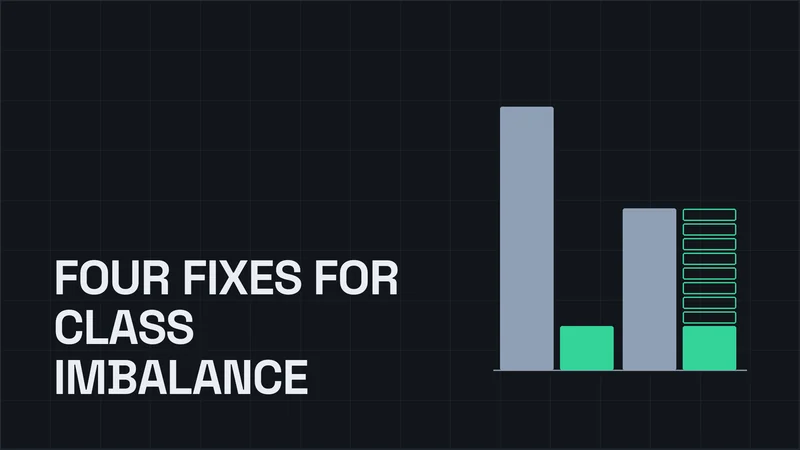
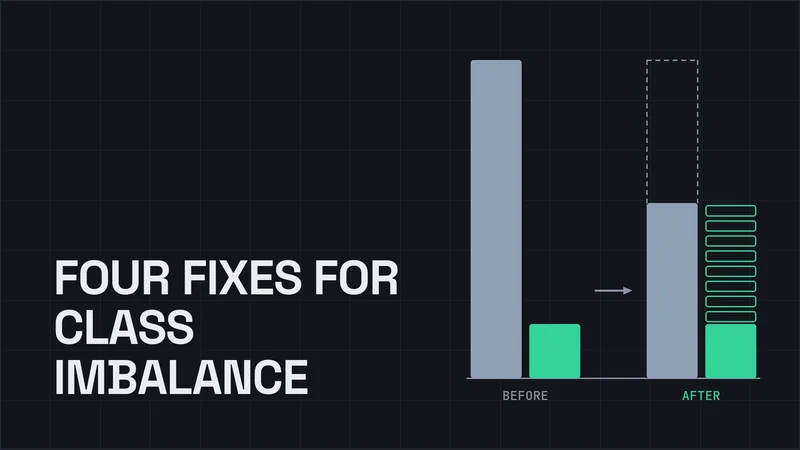
UI/UX polish: redraw article thumbnails, update home skills and intro copy

Changed region(s): [[0.5625, 0.1244, 0.9688, 0.9022], [0.8438, 0.1244, 0.875, 0.1556]]

diff --git a/assets/data/articles.js b/assets/data/articles.js
@@ -562,7 +562,7 @@ function themedSrc(src) {
 }
 
 // bump when the thumbnails are regenerated: same file names, so browsers would keep the old art
-const THUMB_VERSION = 38;
+const THUMB_VERSION = 50;
 
 function articleCard(article) {
   const image = article.image
